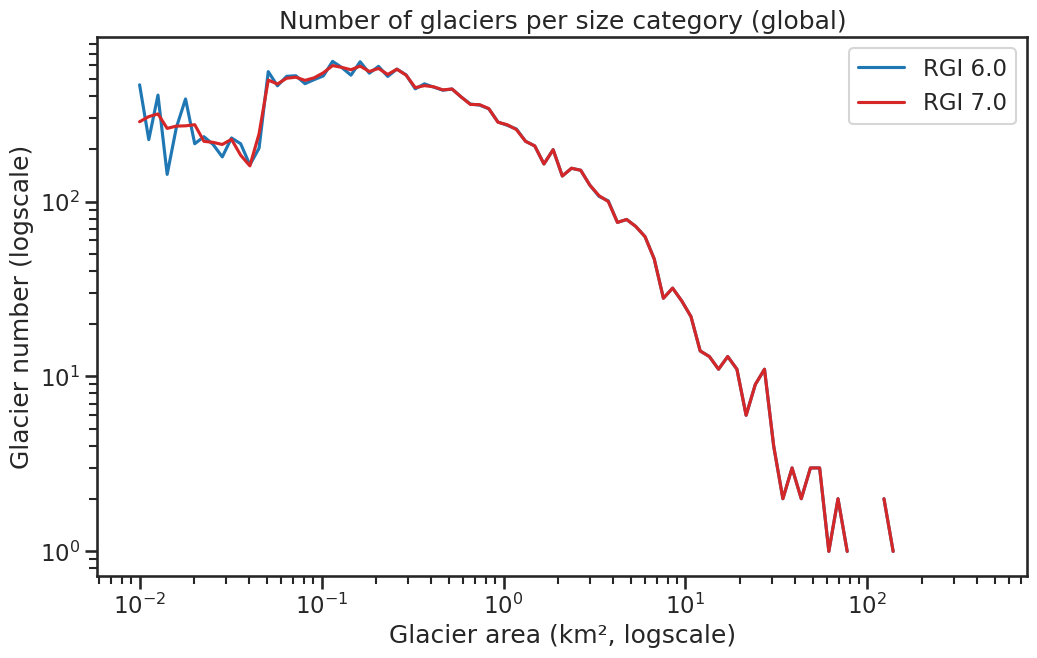
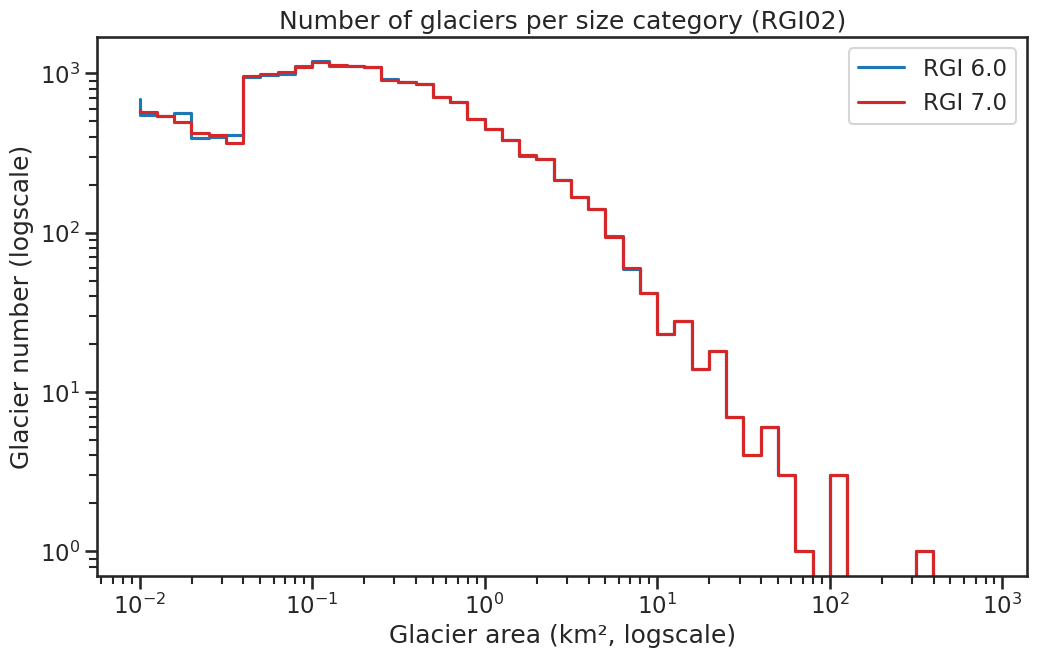
5 regions

diff --git a/docs/regions/rgi03.md b/docs/regions/rgi03.md
@@ -15,12 +15,16 @@ The region encompasses all glaciers in Canada north of 74°N including  the heav
 
 ```
 
+<!--- Map start -->
+
 :::{figure-md}
-<img src="../img/region_plots/RGI03/isrgi6_map_small.jpeg" alt="region map" class="bg-primary mb-1">
+<img src="../img/region_plots/RGI03/isrgi6_map_small.jpeg" alt="region map" class="bg-primary mb-1" width="None%">
 
 Regional glacier area.
-[Download high resolution version](https://raw.githubusercontent.com/GLIMS-RGI/rgi_user_guide/main/docs/img/region_plots/RGI02/isrgi6_map.jpeg).
+[Download high resolution version](https://raw.githubusercontent.com/GLIMS-RGI/rgi_user_guide/main/docs/img/region_plots/RGI03/isrgi6_map.jpeg).
 :::
+
+<!--- Map end -->
 
 ## Changes from version 6.0 to 7.0
 
@@ -38,10 +42,11 @@ For other subregions on Ellesmere Island as well as the Axel Heiberg Island ice 
 ```{admonition} Data sources and analysts
 :class: important, dropdown
 
-:::{figure-md} rgi03-source-fig
-<img src="https://cluster.klima.uni-bremen.de/~fmaussion/misc/rgi7_data/l4_rgi7b0_plots/RGI03/inventory_map.jpeg" alt="region map" class="bg-primary mb-1">
+:::{figure-md}
+<img src="../img/region_plots/RGI03/inventory_map_small.jpeg" alt="region map" class="bg-primary mb-1">
 
-Submission IDs used for this region.
+Submission IDs used for this region
+[Download high resolution version](https://raw.githubusercontent.com/GLIMS-RGI/rgi_user_guide/main/docs/img/region_plots/RGI03/inventory_map.jpeg).
 :::
 
 **Glacier outline providers to GLIMS**
@@ -63,22 +68,63 @@ Submission 728
 Submission 755
 : **Submitter**: Kochtitzky, William.<br/>**Number of outlines**: 23. **Area**: 33.9km². **Release date**: 2021-12-26.<br/>**Analysts**: Kochtitzky, William.
 
-
 Reviewers
 : Kochtitzky, William;
 
 ```
 
-```{admonition} Outlines date distribution
+````{admonition} Regional statistics
 :class: seealso, dropdown
 
-:::{figure-md} rgi03-hist-fig
-<img src="https://cluster.klima.uni-bremen.de/~fmaussion/misc/rgi7_data/l4_rgi7b0_plots/RGI03/date_hist.png" alt="region map" class="bg-primary mb-1">
+```{card} Figure: Outlines source date
 
-Relative glacier area distribution per outline date.
+:::{figure-md}
+<img src="../img/region_plots/RGI03/date_hist.png" alt="region map" class="bg-primary mb-1">
+
+Distribution of the outline dates per area (top) and number (bottom)
 :::
 
 ```
+
+```{card} Figure: Glacier area histogram
+
+:::{figure-md}
+<img src="../img/region_plots/RGI03/area_histogram.png" alt="region histogram" class="bg-primary mb-1">
+
+Number of glaciers per size category (log-log scale).
+:::
+
+```
+
+```{card} Table: Terminus type statistics
+
+Regional number of glaciers (N) and area (km²) per terminus type in RGI 7.0 and RGI 6.0. Note that the default designation in RGI 7.0 is now "Not assigned", while in RGI 6.0 lake-terminating glaciers and shelf-terminating glaciers were identified in some regions. The RGI region 19 is entirely labelled as "Not assigned" in RGI 7.0.
+
+|   Value | Terminus type      |   RGI 7.0 (N) |   RGI 6.0 (N) |   RGI 7.0 (Area) |   RGI 6.0 (Area) |
+|--------:|:-------------------|--------------:|--------------:|-----------------:|-----------------:|
+|       0 | Land-terminating   |             0 |          4298 |                0 |            56000 |
+|       1 | Marine-terminating |           238 |           258 |            49691 |            49111 |
+|       2 | Lake-terminating   |             0 |             0 |                0 |                0 |
+|       3 | Shelf-terminating  |             0 |             0 |                0 |                0 |
+|       9 | Not assigned       |          4978 |             0 |            55680 |                0 |
+
+```
+
+```{card} Table: Surge type statistics
+
+Regional number of glaciers (N) and area (km²) per surge type attribute in RGI 7.0 and RGI 6.0.
+
+|   Value | Surge type   |   RGI 7.0 (N) |   RGI 6.0 (N) |   RGI 7.0 (Area) |   RGI 6.0 (Area) |
+|--------:|:-------------|--------------:|--------------:|-----------------:|-----------------:|
+|       0 | No evidence  |          5145 |          4499 |            69295 |            75945 |
+|       1 | Possible     |            34 |            25 |            13457 |            12279 |
+|       2 | Probable     |            16 |            11 |             5639 |             4098 |
+|       3 | Observed     |            21 |            15 |            16979 |            12731 |
+|       9 | Not assigned |             0 |             6 |                0 |               59 |
+
+```
+
+````
 
 ```{admonition} Version history
 :class: note, dropdown

diff --git a/docs/regions/rgi04.md b/docs/regions/rgi04.md
@@ -17,12 +17,16 @@ The region encompasses all glaciers in northeast Canada south of 74°N including
 
 ```
 
+<!--- Map start -->
+
 :::{figure-md}
-<img src="../img/region_plots/RGI04/isrgi6_map_small.jpeg" alt="region map" class="bg-primary mb-1">
+<img src="../img/region_plots/RGI04/isrgi6_map_small.jpeg" alt="region map" class="bg-primary mb-1" width="None%">
 
 Regional glacier area.
-[Download high resolution version](https://raw.githubusercontent.com/GLIMS-RGI/rgi_user_guide/main/docs/img/region_plots/RGI02/isrgi6_map.jpeg).
+[Download high resolution version](https://raw.githubusercontent.com/GLIMS-RGI/rgi_user_guide/main/docs/img/region_plots/RGI04/isrgi6_map.jpeg).
 :::
+
+<!--- Map end -->
 
 ## Changes from version 6.0 to 7.0
 
@@ -36,10 +40,11 @@ The RGI 6.0 glacier outlines were modified using end-of-summer Landsat 7 ETM+ im
 ```{admonition} Data sources and analysts
 :class: important, dropdown
 
-:::{figure-md} rgi04-source-fig
-<img src="https://cluster.klima.uni-bremen.de/~fmaussion/misc/rgi7_data/l4_rgi7b0_plots/RGI04/inventory_map.jpeg" alt="region map" class="bg-primary mb-1">
+:::{figure-md}
+<img src="../img/region_plots/RGI04/inventory_map_small.jpeg" alt="region map" class="bg-primary mb-1">
 
-Submission IDs used for this region.
+Submission IDs used for this region
+[Download high resolution version](https://raw.githubusercontent.com/GLIMS-RGI/rgi_user_guide/main/docs/img/region_plots/RGI04/inventory_map.jpeg).
 :::
 
 **Glacier outline providers to GLIMS**
@@ -57,16 +62,58 @@ Reviewers
 
 ```
 
-```{admonition} Outlines date distribution
+````{admonition} Regional statistics
 :class: seealso, dropdown
 
-:::{figure-md} rgi04-hist-fig
-<img src="https://cluster.klima.uni-bremen.de/~fmaussion/misc/rgi7_data/l4_rgi7b0_plots/RGI04/date_hist.png" alt="region map" class="bg-primary mb-1">
+```{card} Figure: Outlines source date
 
-Relative glacier area distribution per outline date.
+:::{figure-md}
+<img src="../img/region_plots/RGI04/date_hist.png" alt="region map" class="bg-primary mb-1">
+
+Distribution of the outline dates per area (top) and number (bottom)
 :::
 
 ```
+
+```{card} Figure: Glacier area histogram
+
+:::{figure-md}
+<img src="../img/region_plots/RGI04/area_histogram.png" alt="region histogram" class="bg-primary mb-1">
+
+Number of glaciers per size category (log-log scale).
+:::
+
+```
+
+```{card} Table: Terminus type statistics
+
+Regional number of glaciers (N) and area (km²) per terminus type in RGI 7.0 and RGI 6.0. Note that the default designation in RGI 7.0 is now "Not assigned", while in RGI 6.0 lake-terminating glaciers and shelf-terminating glaciers were identified in some regions. The RGI region 19 is entirely labelled as "Not assigned" in RGI 7.0.
+
+|   Value | Terminus type      |   RGI 7.0 (N) |   RGI 6.0 (N) |   RGI 7.0 (Area) |   RGI 6.0 (Area) |
+|--------:|:-------------------|--------------:|--------------:|-----------------:|-----------------:|
+|       0 | Land-terminating   |             0 |          7347 |                0 |            37859 |
+|       1 | Marine-terminating |            85 |            68 |             3342 |             3030 |
+|       2 | Lake-terminating   |             0 |             0 |                0 |                0 |
+|       3 | Shelf-terminating  |             0 |             0 |                0 |                0 |
+|       9 | Not assigned       |         10924 |             0 |            37196 |                0 |
+
+```
+
+```{card} Table: Surge type statistics
+
+Regional number of glaciers (N) and area (km²) per surge type attribute in RGI 7.0 and RGI 6.0.
+
+|   Value | Surge type   |   RGI 7.0 (N) |   RGI 6.0 (N) |   RGI 7.0 (Area) |   RGI 6.0 (Area) |
+|--------:|:-------------|--------------:|--------------:|-----------------:|-----------------:|
+|       0 | No evidence  |         11002 |             0 |            36536 |                0 |
+|       1 | Possible     |             0 |             0 |                0 |                0 |
+|       2 | Probable     |             6 |             2 |             3776 |             3823 |
+|       3 | Observed     |             1 |             0 |              227 |                0 |
+|       9 | Not assigned |             0 |          7413 |                0 |            37065 |
+
+```
+
+````
 
 ```{admonition} Version history
 :class: note, dropdown

diff --git a/docs/regions/rgi05.md b/docs/regions/rgi05.md
@@ -9,12 +9,16 @@ The region encompasses all glaciers not connected or only weakly connected to th
 
 ```
 
+<!--- Map start -->
+
 :::{figure-md}
-<img src="../img/region_plots/RGI05/isrgi6_map_small.jpeg" alt="region map" class="bg-primary mb-1">
+<img src="../img/region_plots/RGI05/isrgi6_map_small.jpeg" alt="region map" class="bg-primary mb-1" width="None%">
 
 Regional glacier area.
-[Download high resolution version](https://raw.githubusercontent.com/GLIMS-RGI/rgi_user_guide/main/docs/img/region_plots/RGI02/isrgi6_map.jpeg).
+[Download high resolution version](https://raw.githubusercontent.com/GLIMS-RGI/rgi_user_guide/main/docs/img/region_plots/RGI05/isrgi6_map.jpeg).
 :::
+
+<!--- Map end -->
 
 ## Changes from version 6.0 to 7.0
 
@@ -37,10 +41,11 @@ The Flade Isblink Icecap was not fully subdivided into individual glaciers in RG
 ```{admonition} Data sources and analysts
 :class: important, dropdown
 
-:::{figure-md} rgi05-source-fig
-<img src="https://cluster.klima.uni-bremen.de/~fmaussion/misc/rgi7_data/l4_rgi7b0_plots/RGI05/inventory_map.jpeg" alt="region map" class="bg-primary mb-1">
+:::{figure-md}
+<img src="../img/region_plots/RGI05/inventory_map_small.jpeg" alt="region map" class="bg-primary mb-1">
 
-Submission IDs used for this region.
+Submission IDs used for this region
+[Download high resolution version](https://raw.githubusercontent.com/GLIMS-RGI/rgi_user_guide/main/docs/img/region_plots/RGI05/inventory_map.jpeg).
 :::
 
 **Glacier outline providers to GLIMS**
@@ -61,16 +66,58 @@ Reviewers
 
 ```
 
-```{admonition} Outlines date distribution
+````{admonition} Regional statistics
 :class: seealso, dropdown
 
-:::{figure-md} rgi05-hist-fig
-<img src="https://cluster.klima.uni-bremen.de/~fmaussion/misc/rgi7_data/l4_rgi7b0_plots/RGI05/date_hist.png" alt="region map" class="bg-primary mb-1">
+```{card} Figure: Outlines source date
 
-Relative glacier area distribution per outline date.
+:::{figure-md}
+<img src="../img/region_plots/RGI05/date_hist.png" alt="region map" class="bg-primary mb-1">
+
+Distribution of the outline dates per area (top) and number (bottom)
 :::
 
 ```
+
+```{card} Figure: Glacier area histogram
+
+:::{figure-md}
+<img src="../img/region_plots/RGI05/area_histogram.png" alt="region histogram" class="bg-primary mb-1">
+
+Number of glaciers per size category (log-log scale).
+:::
+
+```
+
+```{card} Table: Terminus type statistics
+
+Regional number of glaciers (N) and area (km²) per terminus type in RGI 7.0 and RGI 6.0. Note that the default designation in RGI 7.0 is now "Not assigned", while in RGI 6.0 lake-terminating glaciers and shelf-terminating glaciers were identified in some regions. The RGI region 19 is entirely labelled as "Not assigned" in RGI 7.0.
+
+|   Value | Terminus type      |   RGI 7.0 (N) |   RGI 6.0 (N) |   RGI 7.0 (Area) |   RGI 6.0 (Area) |
+|--------:|:-------------------|--------------:|--------------:|-----------------:|-----------------:|
+|       0 | Land-terminating   |             0 |         18550 |                0 |            58611 |
+|       1 | Marine-terminating |           507 |           756 |            25980 |            31106 |
+|       2 | Lake-terminating   |             0 |             0 |                0 |                0 |
+|       3 | Shelf-terminating  |             0 |             0 |                0 |                0 |
+|       9 | Not assigned       |         19487 |             0 |            64502 |                0 |
+
+```
+
+```{card} Table: Surge type statistics
+
+Regional number of glaciers (N) and area (km²) per surge type attribute in RGI 7.0 and RGI 6.0.
+
+|   Value | Surge type   |   RGI 7.0 (N) |   RGI 6.0 (N) |   RGI 7.0 (Area) |   RGI 6.0 (Area) |
+|--------:|:-------------|--------------:|--------------:|-----------------:|-----------------:|
+|       0 | No evidence  |         19901 |             0 |            88407 |                0 |
+|       1 | Possible     |             1 |             0 |                1 |                0 |
+|       2 | Probable     |            71 |            74 |             1069 |             1172 |
+|       3 | Observed     |            21 |            14 |             1005 |              682 |
+|       9 | Not assigned |             0 |         19218 |                0 |            87863 |
+
+```
+
+````
 
 ```{admonition} Version history
 :class: note, dropdown

diff --git a/docs/regions/rgi02.md b/docs/regions/rgi02.md
@@ -13,12 +13,16 @@ The region encompasses all glaciers in western Canada and the USA not included i
 
 ```
 
+<!--- Map start -->
+
 :::{figure-md}
-<img src="../img/region_plots/RGI02/isrgi6_map_small.jpeg" alt="region map" class="bg-primary mb-1" width="60%">
+<img src="../img/region_plots/RGI02/isrgi6_map_small.jpeg" alt="region map" class="bg-primary mb-1" width="None%">
 
 Regional glacier area.
 [Download high resolution version](https://raw.githubusercontent.com/GLIMS-RGI/rgi_user_guide/main/docs/img/region_plots/RGI02/isrgi6_map.jpeg).
 :::
+
+<!--- Map end -->
 
 ## Changes from version 6.0 to 7.0
 
@@ -29,10 +33,10 @@ None.
 ```{admonition} Data sources and analysts
 :class: important, dropdown
 
-:::{figure-md} rgi02-source-fig
+:::{figure-md}
 <img src="../img/region_plots/RGI02/inventory_map_small.jpeg" alt="region map" class="bg-primary mb-1">
 
-Submission IDs used for this region.
+Submission IDs used for this region
 [Download high resolution version](https://raw.githubusercontent.com/GLIMS-RGI/rgi_user_guide/main/docs/img/region_plots/RGI02/inventory_map.jpeg).
 :::
 
@@ -66,13 +70,25 @@ Reviewers
 ````{admonition} Regional statistics
 :class: seealso, dropdown
 
-**Outlines source date**
+```{card} Figure: Outlines source date
 
 :::{figure-md}
 <img src="../img/region_plots/RGI02/date_hist.png" alt="region map" class="bg-primary mb-1">
 
 Distribution of the outline dates per area (top) and number (bottom)
 :::
+
+```
+
+```{card} Figure: Glacier area histogram
+
+:::{figure-md}
+<img src="../img/region_plots/RGI02/area_histogram.png" alt="region histogram" class="bg-primary mb-1">
+
+Number of glaciers per size category (log-log scale).
+:::
+
+```
 
 ```{card} Table: Terminus type statistics
 

diff --git a/docs/regions/rgi01.md b/docs/regions/rgi01.md
@@ -17,7 +17,7 @@ The region encompasses all glaciers in the state of Alaska, USA, and also all th
 <!--- Map start -->
 
 :::{figure-md}
-<img src="../img/region_plots/RGI01/isrgi6_map_small.jpeg" alt="region map" class="bg-primary mb-1" width="100%">
+<img src="../img/region_plots/RGI01/isrgi6_map_small.jpeg" alt="region map" class="bg-primary mb-1" width="None%">
 
 Regional glacier area.
 [Download high resolution version](https://raw.githubusercontent.com/GLIMS-RGI/rgi_user_guide/main/docs/img/region_plots/RGI01/isrgi6_map.jpeg).
